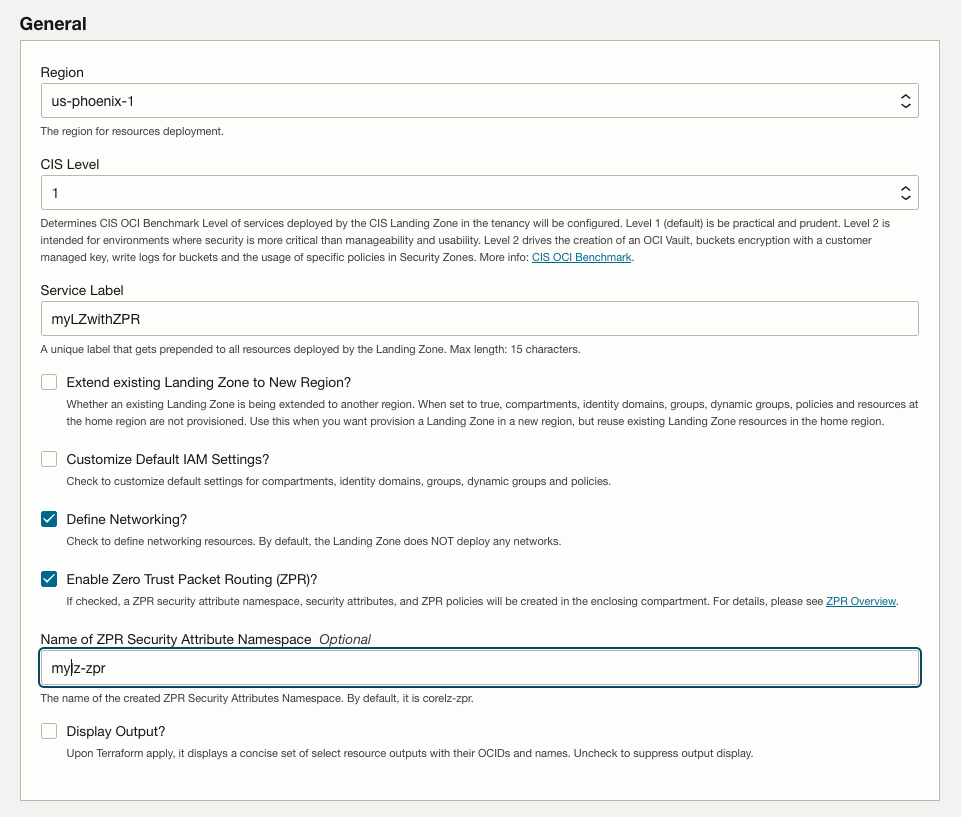
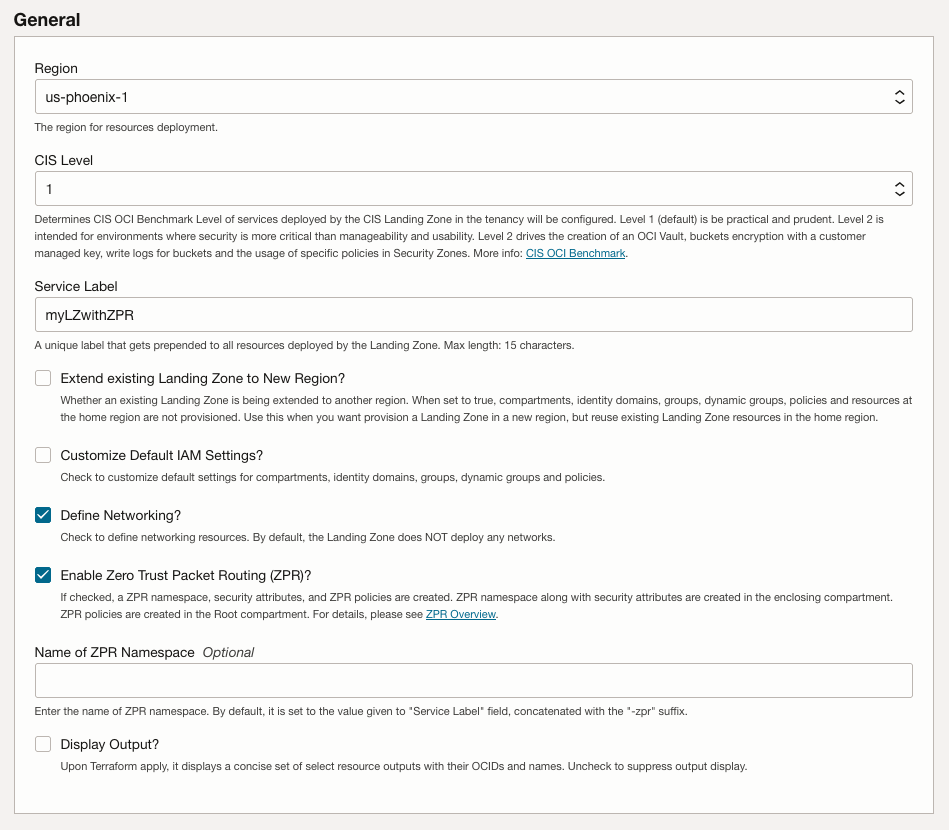
Fifth pass at document updates.

Changed region(s): [[0.0, 0.0, 0.9779, 0.9792], [0.9168, 0.0918, 0.9779, 0.153], [0.9473, 0.3672, 0.9779, 0.3978]]

diff --git a/DEPLOYMENT-GUIDE.md b/DEPLOYMENT-GUIDE.md
@@ -16,7 +16,7 @@
     1. [Governance](#governance-4)
     1. [Security Services](#security-services)
     1. [Deploying Lifecycle Environments](#deploying-lifecycle-environments)
-    1. [Zero Trust Packet Routing (ZPR) Use](#zpr-use)
+    1. [Zero Trust Packet Routing (ZPR)](#zpr-use)
 1. [Ways to Deploy](#ways-to-deploy)
     1. [Deploying with Terraform CLI](#deploying-with-terraform-cli)
     1. [Deploying with OCI Resource Manager UI](#deploying-with-orm-ui)
@@ -107,7 +107,6 @@ There are a few crucial aspects to consider when managing state:
     You have two options:
     - via Terraform CLI, use [Terraform workspaces](https://www.terraform.io/language/state/workspaces).
     - via OCI Resource Manager, create a separate Stack for each Landing Zone environment.
-
 
 - **Terraform may overwrite changes made via other means to its managed resources**: when you provision infrastructure resources with Terraform, it is expected that those resources are going to be managed via Terraform. However, there are situations where quick changes are made outside Terraform, like via the OCI Console. If you resume using Terraform later, those changes will be detected and Terraform will inform you that those changes will be overwritten. You can either accept that or import those resource changes into the state file. Terraform can import existing resources into the state, but it does not generate configuration. Therefore, before importing existing resources, it is necessary to manually add the imported resources into the configuration files. This approach is recommended for advanced users only and is out of the scope of this document.
 
@@ -475,7 +474,7 @@ Cloud Guard is a key component in OCI secure posture management. It uses detecto
 
 Some customers want more control over the lifecycle of encryption keys. By default, Landing Zone provisions a *Vault* with a *Key* that is used to encrypt a sample Object Storage bucket. While this key could be used by other clients, we recommend creating different keys for security and lifecycle reasons. Currently, Landing Zone does not expose any variables to control the provisioning of vaults and keys.
 
-**Note**: Encrypting with customer-managed keys is a CIS Foundations Benchmark Level 2 requirement.
+**_NOTE:_** Encrypting with customer-managed keys is a CIS Foundations Benchmark Level 2 requirement.
 
 ### Vulnerability Scanning
 
@@ -501,7 +500,7 @@ Lifecycle environments refer to the different stages a workload goes through in 
 
 These environments can take different forms based on customer requirements, ranging from full isolation to no isolation (or full sharing). Some organizations may require completely segregated, where resources are deployed in separate compartments, managed by different groups in different regions (full isolation). Others may want to share a few Landing Zone resources, like networking and security services (middle ground). Others may need to share all Landing Zone resources and segregate environments based on the resources (instances, clusters, functions, databases, storage) where workloads are executed (no isolation). As a best practice we do not recommend no isolation mode, as changes in lower stages may affect production workloads. Say for instance you need to make changes to routing and security rules. A small distraction may get your production service inaccessible. No isolation is a bad choice for blast radius reasons and it limits customers ability to innovate.
 
-Full isolation is a much superior option and is straightforward to implement, thanks to **service_label** input variable. The value assigned to this variable is used as prefix to all provisioned resources. Therefore, for creating a dev environment, you can assign it "dev". For a test environment, "test", and so on. For more isolation, **service_label** can be paired together with the **region** variable, and you get Landing Zone environments in a different regions.
+Full isolation is a much superior option and is straightforward to implement, thanks to *service_label* input variable. The value assigned to this variable is used as prefix to all provisioned resources. Therefore, for creating a dev environment, you can assign it "dev". For a test environment, "test", and so on. For more isolation, **service_label** can be paired together with the *region* variable, and you get Landing Zone environments in a different regions.
 
 A development environment in Phoenix:
 ```
@@ -519,21 +518,94 @@ Fully isolated environments require distinct Terraform configurations, therefore
 
 The middle ground approach is typically used by organizations that see network and security as shared services and want to provide separate environments for application and database resources. This is coming soon in the Landing Zone.
 
-## <a name="zpr-use"></a>4.6 Zero Trust Packet Routing (ZPR) Use
+## <a name="zpr-use"></a>4.6 Zero Trust Packet Routing (ZPR)
 
-With this release, OCI Core Landing Zone supports Zero Trust Packet Routing (ZPR). ZPR prevents unauthorized access with intent-based security policies that you write for OCI resources and assign security attributes to. Security attributes are labels that ZPR uses to identify and organize OCI resources. ZPR enforces policy at the network level each time access is requested, regardless of potential network architecture changes or misconfigurations. 
+OCI Core Landing Zone supports Zero Trust Packet Routing (ZPR). ZPR prevents unauthorized access with intent-based security policies that you write for OCI resources and assign security attributes to. Security attributes are labels that ZPR uses to identify and organize OCI resources. ZPR enforces policy at the network level each time access is requested, regardless of potential network architecture changes or misconfigurations.
+
+ZPR (version 1) functions as a layer on top of existing Network Security Groups or Security Lists or both.  For resources without ZPR tags, traffic is only allowed in or out if *existing* NSG and/or security lists allow the traffic.  Once a resource receives a ZPR tag, traffic must be approved by *all* existing filters: ZPR policy, NSGs and security lists.
 
 To use ZPR, it must be [enabled at the tenancy level](https://docs.oracle.com/en-us/iaas/Content/zero-trust-packet-routing/enable-zpr.htm). Note that once it is enabled, tenancy users and administrators cannot disable it. ZPR also requires a security attribute namespace. Core Landing Zone facilitates both the tenancy ZPR enablement and security attribute namespace creation with values assigned to two variables:
 
 - **enable\_zpr**: Whether ZPR is enabled as part of this Landing Zone. By default, no ZPR resources are created.
 - **zpr\_namespace\_name**: The name of ZPR security attribute namespace.
 
-To enable ZPR during deployment using OCI Resource Manager UI, select _"Define Networking?"_ in the General section, then check _"Enable Zero Trust Packet Routing (ZPR)?"_. The default ZPR namespace name is the value of "Service Label" variable concatenated with the '-zpr' suffix, which can be overridden by any name of choice using 'Name of ZPR Namespace'.
+To enable ZPR during deployment using OCI Resource Manager UI, select _"Define Networking?"_ in the General section, then check _"Enable Zero Trust Packet Routing (ZPR)?"_. The default ZPR namespace name is the value of *service\_label* variable concatenated with the '-zpr' suffix, which can be overridden by any name of choice using the optional input field.
 
 <img src="images/ZPR_enable.png" alt="ZPR enable" width="800"/>
 
-Core Landing Zone creates ZPR policies as an extra layer of protection. But for ZPR policies to take effect, you should apply ZPR security attributes to supported resources, like compute instances and databases.
-See [Resources That Can Be Assigned Security Attributes](https://docs.oracle.com/en-us/iaas/Content/zero-trust-packet-routing/overview.htm#resources-assigned-security-attributes) for a list of resource types that support ZPR security attributes. 
+With a ZPR namespace established, the next step is to create security attributes based on resource types.  See [Resources That Can Be Assigned Security Attributes](https://docs.oracle.com/en-us/iaas/Content/zero-trust-packet-routing/overview.htm#resources-assigned-security-attributes) for a list of resource types that support ZPR security attributes.
+
+The last step is to create ZPR policies.  Core Landing Zone creates network ZPR policies as a base layer of protection. But for ZPR policies to take effect, you should apply ZPR security attributes to supported resources, like compute instances and databases.
+
+#### Three-Tier VCN ZPR Policies
+
+in *Three-Tier* VCN allow *application* endpoints to connect to *database* endpoints with protocol=*SQLNet*
+```
+in <ZPR namespace>.net:tt-vcn-1-<service_label> VCN allow <ZPR namespace>.app:<service_label> endpoints to connect to <ZPR namespace>.database:<service_label> endpoints with protocol='tcp/1521-1522'
+```
+
+in *Three-Tier* VCN allow *bastion* endpoints to connect to *database* endpoints with protocol=*SSH*
+```
+in <ZPR namespace>.net:tt-vcn-1-<service_label> VCN allow <ZPR namespace>.bastion:<service_label> endpoints to connect to <ZPR namespace>.database:<service_label> endpoints with protocol='tcp/22'
+```
+
+in *Three-Tier* VCN allow *database* endpoints to connect to *Oracle Services Network (OSN)* with protocol=*HTTPS*
+```
+in <ZPR namespace>.net:tt-vcn-1-<service_label> VCN allow <ZPR namespace>.database:<service_label> endpoints to connect to 'osn-services-ip-addresses' with protocol='tcp/443'
+```
+
+in *Three-Tier* VCN allow *other Three-Tier DB CIDRs* to connect to *database* endpoints with protocol=*SQLNet*
+```
+in <ZPR namespace>.net:tt-vcn-1-<service_label> VCN allow '10.1.2.0/24' to connect to <ZPR namespace>.database:<service_label> endpoints with protocol='tcp/1521-1522'
+```
+
+in *Three-Tier* VCN allow *database* endpoints to connect to *other Three-Tier DB CIDRs* with protocol=*SQLNet*
+```
+in <ZPR namespace>.net:tt-vcn-1-<service_label> VCN allow <ZPR namespace>.database:<service_label> endpoints to connect to '10.1.2.0/24' with protocol='tcp/1521-1522'
+```
+
+in *Three-Tier* VCN allow *database* endpoints to connect to *Exadata Client Subnet CIDRs* with protocol=*SQLNet*
+```
+in <ZPR namespace>.net:tt-vcn-1-<service_label> VCN allow <ZPR namespace>.database:<service_label> endpoints to connect to '172.16.2.0/24' with protocol='tcp/1521-1522'
+```
+
+in *Three-Tier* VCN allow *Exadata Client Subnet CIDRs* to connect to *database* endpoints with protocol=*SQLNet*
+```
+in <ZPR namespace>.net:tt-vcn-1-<service_label> VCN allow '172.16.2.0/24' to connect to <ZPR namespace>.database:<service_label> endpoints with protocol='tcp/1521-1522'
+```
+
+#### Exadata VCN ZPR Policies
+
+in *Exadata* VCN allow *bastion* endpoints to connect to *database* endpoints with protocol=*SSH*
+```
+in <ZPR namespace>.net:exa-vcn-1-<service_label> VCN allow <ZPR namespace>.bastion:<service_label> endpoints to connect to <ZPR namespace>.database:<service_label> endpoints with protocol='tcp/22'
+```
+
+in *Exadata* VCN allow *database* endpoints to connect to *database* endpoints with protocol=*SQLNet*
+```
+in <ZPR namespace>.net:exa-vcn-1-<service_label> VCN allow <ZPR namespace>.database:<service_label> endpoints to connect to <ZPR namespace>.database:<service_label> endpoints with protocol='tcp/1521-1522'
+```
+
+in *Exadata* VCN allow *database* endpoints to connect to *database* endpoints with protocol=*Fast Application Notifications (FAN)*
+```
+in <ZPR namespace>.net:exa-vcn-1-<service_label> VCN allow <ZPR namespace>.database:<service_label> endpoints to connect to <ZPR namespace>.database:<service_label> endpoints with protocol='tcp/6200'
+```
+
+in *Exadata* VCN allow *database* endpoints to connect to *Three-Tier DB CIDRs* with protocol=*SQLNet*
+```
+in <ZPR namespace>.net:exa-vcn-1-<service_label> VCN allow <ZPR namespace>.database:<service_label> endpoints to connect to '10.x.2.0/24' with protocol='tcp/1521-1522'
+```
+
+in *Exadata* VCN allow *Three-Tier DB CIDRs* endpoints to connect to *database* endpoints with protocol=*SQLNet*
+```
+in <ZPR namespace>.net:exa-vcn-1-<service_label> VCN allow '10.x.2.0/24' to connect to <ZPR namespace>.database:<service_label> endpoints with protocol='tcp/1521-1522'
+```
+
+**_NOTE:_** A special case to consider is if you use the OCI Bastion Service to deploy a bastion in a Exadata VCN, it should be deployed in the client subnet and attached to the client NSG. In addition, ZPR policy for the Exadata VCN needs to be updated to allow the Bastion Service CIDR to reach a ZPR tagged resource; an additional policy statement like the following example needs to be added:
+
+```
+in <ZPR Namespace>.net:exa-vcn-1-<service_label> VCN allow '<bastion service CIDR>/32' to connect to <ZPR Namespace>.bastion:<service_label> endpoints with protocol='tcp/22'
+```
 
 # <a name="ways-to-deploy"></a>5. Ways to Deploy
 

diff --git a/templates/standalone-three-tier-vcn-zpr/README.md b/templates/standalone-three-tier-vcn-zpr/README.md
@@ -20,7 +20,6 @@ This template has the following parameters set:
 | service_label                  | A unique identifier to prefix the resources | defvcn                        |
 | define_net                     | Check to define networking resources. By default, the Landing Zone does NOT deploy any networks. | true                          |
 | enable_zpr                     | Whether ZPR is enabled as part of this Landing Zone. By default, no ZPR resources are created. | true                          |
-| zpr_namespace_name             | The name of ZPR security attribute namespace. | <service_label>-zpr           |
 | add_tt_vcn1                    | Click to add a three-tier VCN, with three subnets: web (public by default), application (private) and database (private). An optional subnet (private by default) for bastion deployment is also available. | true                          |
 | network_admin_email_endpoints  | List of email addresses that receive notifications for networking related events. | ["email.address@example.com"] |
 | security_admin_email_endpoints | List of email addresses that receive notifications for security related events. | ["email.address@example.com"] |

diff --git a/README.md b/README.md
@@ -195,6 +195,9 @@ See [LICENSE](./LICENSE.txt) for more details.
 
 ## <a name="known-issues">Known Issues</a>
 
+* **OCI ZPR Security Attribute Namespace Blocks Terraform Destroy**
+    * If you use Zero Trust Packet Routing (ZPR), an active Security Attribute Namespace will block any Terraform destroy operation.  This issue will be corrected, but for a workaround in the short-term, see [Retiring a Security Attribute Namespace](https://docs.oracle.com/en-us/iaas/Content/zero-trust-packet-routing/retire-security-attribute-namespace.htm).  The Security Attribute Namespace, including all associated security attributes, can be retired manually via OCI console, CLI or API ***prior*** to running Terraform destroy.
+
 * **Oracle Access Governance (OAG) Availability**    
     * OAG is not currently available in all regions or outside of OCI commercial realms. For more details, see [What's New for Oracle Access Governance](https://docs.oracle.com/en/cloud/paas/access-governance/wsaje/). At the time of this Landing Zone release, OAG cannot deploy in any realm other than OC1.
 
